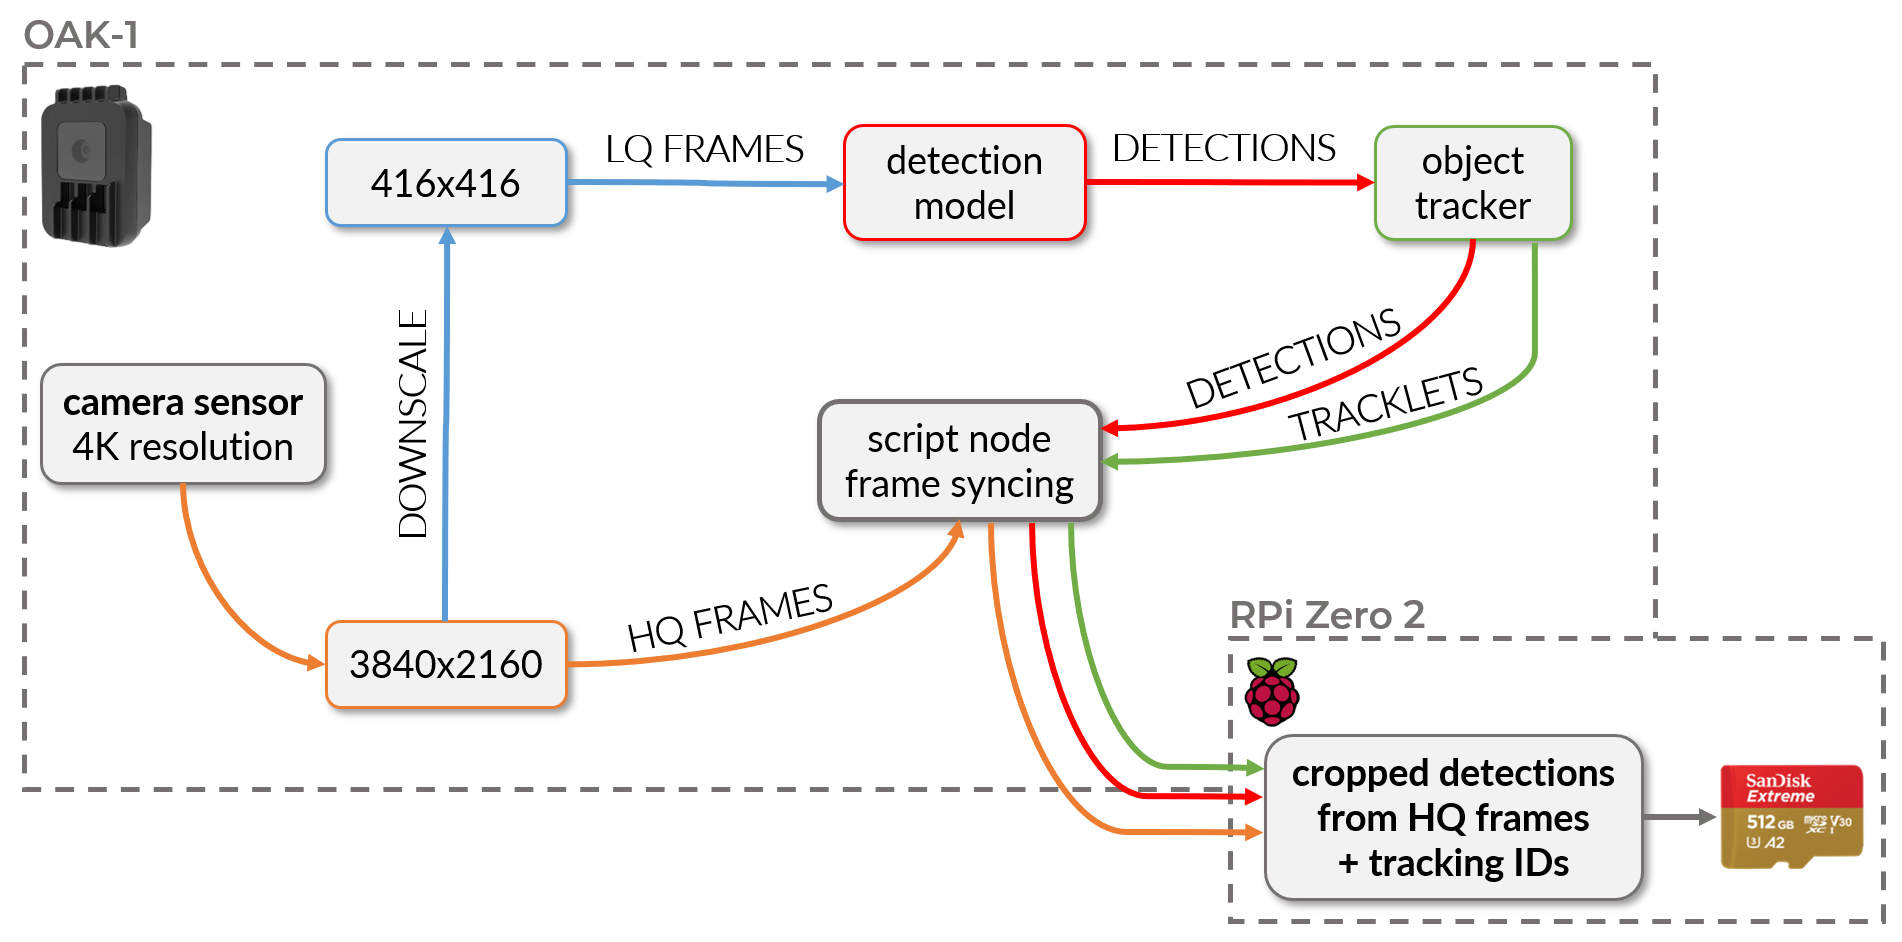
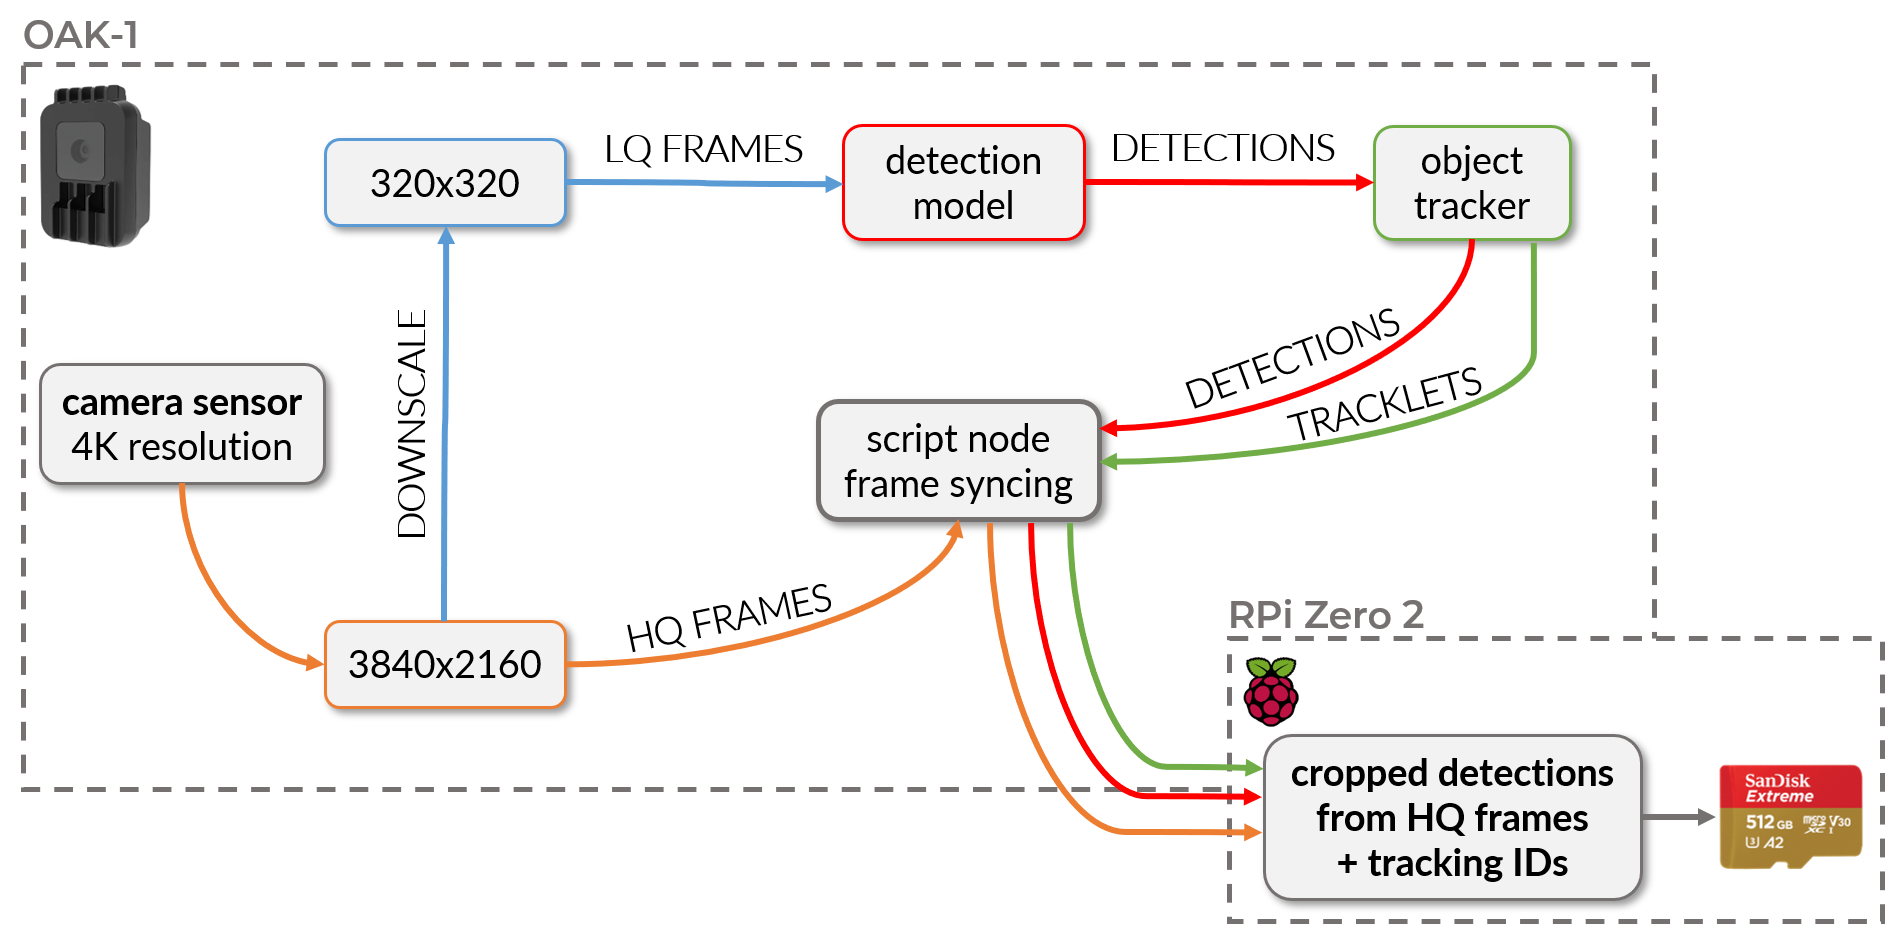
Update text and images
Update text and images for new LQ resolution 320x320 px.

diff --git a/docs/deployment/detection.md b/docs/deployment/detection.md
@@ -12,7 +12,7 @@ multiple counting of a single individual.
 
 Model speed can be increased by choosing **small models** with fewer parameters
 (e.g. YOLOv5n) and **decreasing the resolution** of frames that are used as
-input for the model (e.g. 416x416 pixel). However, the reduced image resolution
+input for the model (e.g. 320x320 pixel). However, the reduced image resolution
 can significantly decrease the detection and especially classification accuracy.
 This effect is even stronger when dealing with very small objects like insects.
 
@@ -28,7 +28,7 @@ following, an alternative approach to this problem is proposed.
 
 The OAK-1 camera and
 [DepthAI Python API](https://docs.luxonis.com/projects/api/en/latest/){target=_blank}
-make it possible to run a low-quality (LQ) stream (e.g. 416x416 px) in parallel
+make it possible to run a low-quality (LQ) stream (e.g. 320x320 px) in parallel
 with a high-quality (HQ) stream (e.g. 3840x2160 px) and
 [synchronize the detections](../software/programming.md#automated-monitoring-script){target=_blank}
 made on the LQ stream with the frames from the HQ stream on-device. This
@@ -56,7 +56,7 @@ frames and save them as individual .jpg files (e.g. every second). The
 [classification](classification.md){target=_blank} in a subsequent step on
 your local PC.
 
-![HQ frame sync cropped detection](assets/images/hq_frame_sync.png){ width="800" }
+![HQ frame sync cropped detection](assets/images/hq_frame_sync.gif){ width="800" }
 
 Separating the detection and classification steps can also simplify dataset
 management, annotation and model training. Overall less training data is
